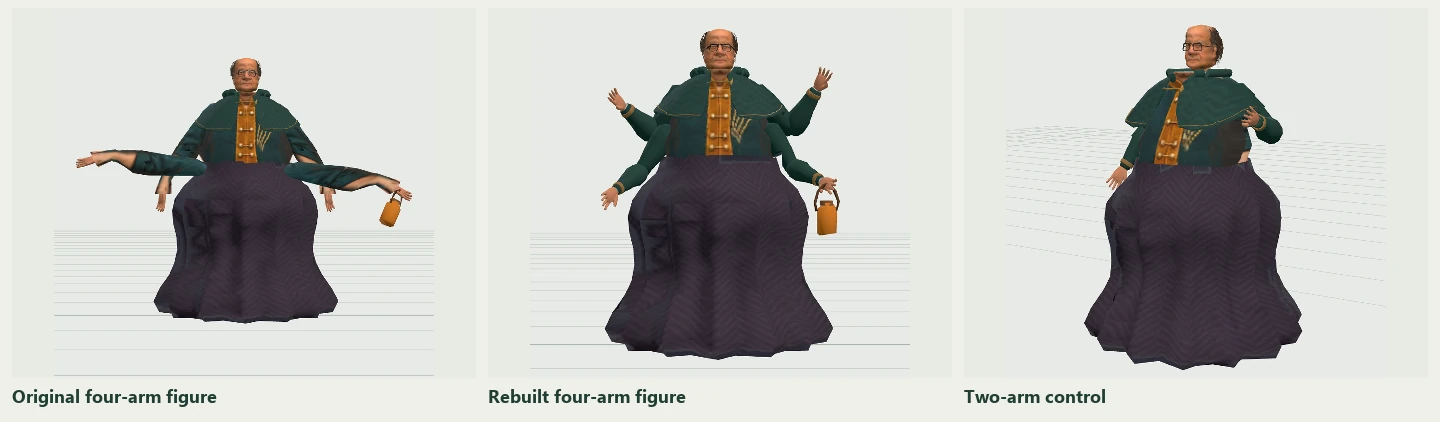
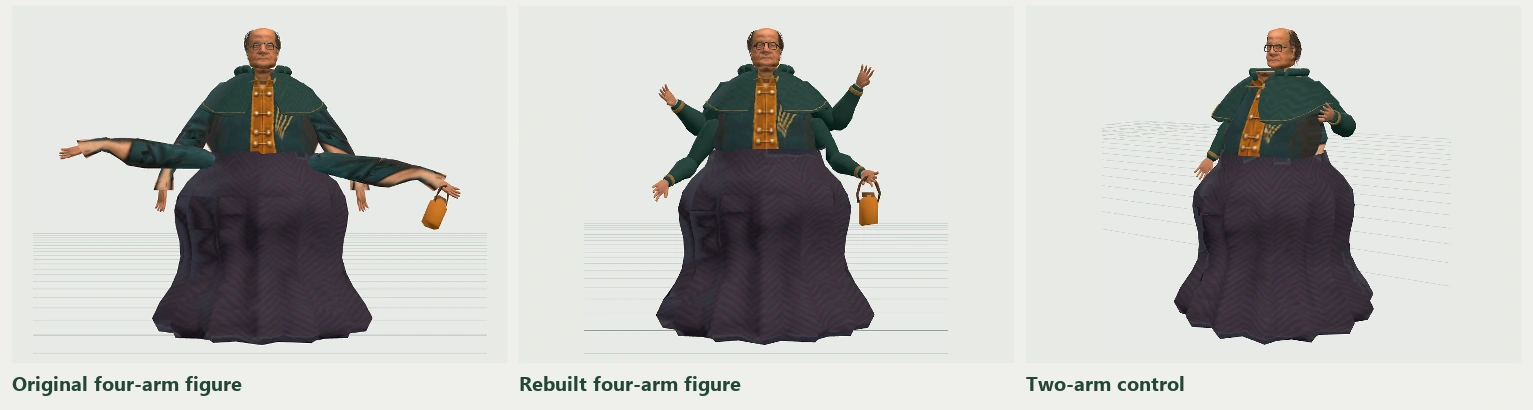
Let artists recut a selected sleeve and compare arms at equal scale

diff --git a/character-view/recipe.js b/character-view/recipe.js
@@ -772,7 +772,7 @@ export function makeBrief(
         "ordered edits against preview. Omit unchanged fields and parts. setPart: {op,id,set}, addPart: {op,part}, removePart: {op,id}, setForm: {op,set}. placeBranch: {op,id,parent,fromWorld:[point on source branch, optional; defaults to its pivot],toWorld:[destination point on parent],copy:true|false,scale:1,turn:[world X,Y,Z degrees]}. Match the chosen point on an existing branch to a point on the new parent, carrying attached regions and paint. Copies get the suffix ‘ copy’. For artist-marked locations use {op:placeAtMark,id,mark:exact mark name,copy:true|false,scale:1,turn:[x,y,z],depth:.008}. The mark supplies the destination parent and position. Omit fromWorld to seat the source pivot. Carry every attached part with it. placeComponent: {op,asset,id:target,mode:replace|replaceBranch|attach,fit:true|false,socket:above|below|front|back|left|right}. Use the library for high-detail painted features; replace preserves children. Use null to remove an optional field in setPart.",
     },
     modeling:
-      'Follow the written instructions first. The variation seed and cues were drawn by the editor from a real random source. The operator authored any drawnChoices as groups of alternatives. Honor the single drawn value in each group where consistent with their instructions. Use the cues to resolve freedom left by the user. Preserve listed part geometry. Return compact operations against the nudged preview and omit unchanged geometry. Global build has optional mass, shoulders, waist, belly and hips multipliers (.4 to 2.4). Units are metres; +Y up, +Z forward and +X character left. The floor is y=0. Preserve appearance and wardrobe unless steered otherwise. You can add, remove, duplicate or replace any parts. Built-in shapes: torso, head, left arm, right arm, left leg, right leg. Their position is an anatomical pivot; size is a local XYZ scale. Custom shapes: box, ellipsoid, cylinder, cone (tip +Y), scute (a shield-shaped convex armor plate, tip -Y, outer ridge +Z). For freeform topology use shape cage, with cage:{vertices:[[x,y,z],...],faces:[[vertexIndex,...],...],levels:0|1|2,creases?:[[a,b],...]}. Bend or straighten one segmented arm relative to its current pose with {op:"bendElbow",id:"forearm",degrees:15}. The wrist and carried objects follow the elbow. A negative angle opens the joint. To equip rows of overlapping plates on a sweep in the current outfit, use {op:"equipPlates",id:"body",name:"chest scale",face:"Front",count:3,columns:3,width:.12,length:.16,depth:.038,start:.3,end:.85,color:"#d2c0a0"}. Width, length and depth are metres in the carrier frame. Rows follow the path from start to end (0–1), columns wrap around its face (Front, Back, Left, Right, Top). Each plate gets its own shape and its upper inside patch seats on the carrier. To reuse an existing turnaround on other regions with matching image framing, use {op:"reuseTurnaround",id:"source part",regions:["first sleeve","second sleeve"]}. The receiving regions must share their old sheet. Use consistently outward winding, 3–8 corners per face. For easy construction, add a cage part without cage data to start from a cube: front/back/left/right/top/bottom face indices are 0,1,2,3,4,5. Apply {op:"editCage",id,kind:"tunnel",face:0,to:1,inset:.34} to make a real opening, "extrude" or "inset" with face and amount, or "crease" on a face. Smaller tunnel inset gives a larger opening. Shape and tilt individual vertices by setting the complete updated cage. A hand shape has a wrist pivot and extends down local Y. Its optional grip has fingers (1-7, plus thumb), curl and spread (0-1), and side (1 or -1). Other primitive positions are their centers; size is full local XYZ dimensions in metres. The organic sweep shape uses knots, each [x,y,z,radiusWidth,radiusDepth] in local metres, two to 48 distinct centreline points, smoothly joined. For sweeps size is local scale. Use this for organic limbs, spines, horns, hair or garment shapes. To bend an existing sweep and carry all of its attached regions use {op:"reshapeSpine",id,knots:[...]}. Appearance.face (0 to 3) selects original face paint and head parts can hold independent sculpt multipliers (.35 to 2) for jaw, nose, brow, cheek, eyes (spacing), eye size, mouth (width), lips (fullness), chin and smile. For a human face made of a sweep, anatomy may be face. Preserve original paint bindings for retained surface artwork. All rotations are Euler XYZ degrees. Custom shapes require color as #rrggbb. Optional parent is a part ID. A child uses local position/size/rotation and follows parent edits. Newly added or replaced primitives receive a metre-based attachment frame automatically: author a child using metre offsets from its parent centre, independent of primitive dimensions. Previously retained primitives without frameSize use scaled local coordinates. Avoid cycles. Optional surface: canvas, leather, metal, scales, plain. Leave outfitRole unassigned for permanent anatomy such as bony sails, ears and horns. The accessory and skirt roles hide regions in Base layer and Pressure suit. Set outfitRole to torso, upper arm, forearm, hand, thigh, shin, foot, head, skirt, accessory or tail when a custom region should accept clothing. A custom mesh may carry markings {kind: Bands, Spots, Rosettes or Countershade, color:#rrggbb, spacing:.06..0.8 metres, coverage:.1..0.9, angle:-180..180 degrees, seed:unsigned integer}. Share one set on organic regions for continuous body markings. Unpainted sweep and ellipsoid regions may set blendSkin:true to join them into one smooth skin with shared joint weights. A sweep can carry drape {folds:2..32,depth:0..0.3,twist:-2..2,slit:0..0.35,slitHeight:0.05..1}. Slits open front and rear panels upwards from the hem. A region also accepts up to 64 local surface pulls: {at:[x,y,z],reach:[rx,ry,rz],offset:[dx,dy,dz],mirrorX?:number}. A smooth radial displacement permits local asymmetry, bulges, dimples and folds in the 3D surface. Keep existing pulls when modifying other fields. For a reusable posed stance, setForm.poses is an array of {name,joints:[{part,station,turn?,shift?}]}. Preserve other named poses when adding one. Each joint is identified by part ID and zero-based station from its attachment toward its tip. A rigid region has station 0. A turn is a unit local XYZW quaternion relative to bind. A shift is a local XYZ translation in metres relative to bind. The whole skeleton uses part "" and station 0. Poses export as named clips and preserve the editable rest shape. Optional motionRole (rigid, torso, head, upper arm, forearm, hand, thigh, shin, foot, wing, fin, axial spine, tail, skirt) controls skinning and animation independently of clothing. Use axial spine for a flexible sweeping trunk, ordering its points from head to tail. This supports swimming and slithering. Frontal geometry edits use frontFits, up to six successive passes {pins:[{at:[x,y,z],shift:[dx,dy]},...],radius:.10.. .65,amount:0..1}. Coordinates use head-height units centered on the current face bounds, +X towards character left, +Y up, +Z forward. Each pass interpolates 3–32 paired surface landmarks including fixed points. Optional view:{yaw,pitch,mode:"plane" or "depth"} uses a head-centred orthographic orbit in degrees: positive yaw towards +X, positive pitch upwards. For an angled pass at and shift use camera right, up and toward-camera coordinates. Depth mode adjusts only anatomical Z and requires at least a 20 degree angle away from the frontal axis. In depth mode symmetric:true inside view mirrors the scalar correction across anatomical X. An optional frontFits overlay holds a content-hashed UV paint layer. Preserve these on unrelated edits. Head accessories can share rigidFaceAnchor:[x,y,z] in normalized anatomical head coordinates; they follow that point rigidly through each face fit. Set faceClearance in metres (.001 to .025) on the rigid front pieces; supporting pieces sharing the same anchor can extend from their rear attachment. A head or registered portrait may use profileFit:{curve:[[t,forward],...],amount:0..1}. Trace 4–96 rows from the brow at [0,0] to the lower chin at t=1, using forward depth relative to the brow in units of brow-to-chin height. Increasing t descends the face. Preserve the curve unless directed to change its side contour. Optional profileFit.stage=\"finish\" makes the side contour the final depth constraint and optional relief from 0 to 1 rebuilds nose and cheek depth against that contour. Preserve a profileFit.paint registration and its side portrait ID on unrelated edits. A head or registered portrait may carry eyesRig {color:#rrggbb,opening:.42..1.8,width:.62..1.6,spacing:.7..1.3,lift:-.10.. .10,iris:.55..1.45}. Preserve measured offsets when revising a fit. The iris supports four independent gaze morphs. An unpainted, unjoined sweep can grow individually rooted fibres along its knots using fibres:{count:4..96,wave:0..1,fall:0..1,grey:0..1,rooted:true|false,seed:unsigned integer}. Use fall for trailing length relative to guide length. Preserve seeds and root attachment on unrelated edits. A head may carry a procedural hair groom with optional pattern (Locks, Side part, Coils, Braids or Locs), part position (-1 to 1), length (0-2 head heights), curl, gather, volume (0-1), sweep (-1 to 1), color (#rrggbb) and an unsigned integer seed. Existing separate hair meshes can have headLayer:"hair" and a head as parent so applying a groom replaces them visually. Attach a cage root to the actual parent surface using surfaceJoin:{faces:[cageFaceIndices],depth:.008} or a sweep end with surfaceJoin:{end:"first", "last" or "along",depth:.008}. The selected patch sits inside the carrier and shares its joint weights. A waist-fitted skirt uses shape mantle, wearFit:true, motionRole skirt, cut:{kind:"Skirt",width,depth,drop,flare,folds,outline:[[0,1],...,[1,hemWidth]],bias:-1..1,gather:0..0.3,tiers:0..6,train:0..2}. Width, depth, drop and rear train use metres. Outline points descend from waist to hem with radius relative to the waist. Bias slopes raised folds across the front. Use surface "satin" for smooth cloth or "canvas" for coarse weave. A mantle is a fitted cut fabric panel. Its cut.armAccess can be Covered, Open sides or Armholes independently of the garment cut. Arm areas follow the nearest arm while the neckline stays attached. Keep the other cut fields on changes. Use optional visibleIn (wardrobe names) for outfit-specific additions. appearance.tones accepts cloth, trim, panel, pants, boots as hex colours. Use unique readable IDs. Use at most 128 parts, each size .005 to 12 and position -12 to 12. Return only proposal JSON. Keep adult humanoid clothing practical and nonsexualized.',
+      'Follow the written instructions first. The variation seed and cues were drawn by the editor from a real random source. The operator authored any drawnChoices as groups of alternatives. Honor the single drawn value in each group where consistent with their instructions. Use the cues to resolve freedom left by the user. Preserve listed part geometry. Return compact operations against the nudged preview and omit unchanged geometry. Global build has optional mass, shoulders, waist, belly and hips multipliers (.4 to 2.4). Units are metres; +Y up, +Z forward and +X character left. The floor is y=0. Preserve appearance and wardrobe unless steered otherwise. You can add, remove, duplicate or replace any parts. Built-in shapes: torso, head, left arm, right arm, left leg, right leg. Their position is an anatomical pivot; size is a local XYZ scale. Custom shapes: box, ellipsoid, cylinder, cone (tip +Y), scute (a shield-shaped convex armor plate, tip -Y, outer ridge +Z). For freeform topology use shape cage, with cage:{vertices:[[x,y,z],...],faces:[[vertexIndex,...],...],levels:0|1|2,creases?:[[a,b],...]}. Replace stretched sleeve paint with solid cloth and recut a segmented swept arm from shoulder to wrist with {op:"recutArmSleeves",id:"upper arm",color:"#214d47"}. Bend or straighten one segmented arm relative to its current pose with {op:"bendElbow",id:"forearm",degrees:15}. The wrist and carried objects follow the elbow. A negative angle opens the joint. To equip rows of overlapping plates on a sweep in the current outfit, use {op:"equipPlates",id:"body",name:"chest scale",face:"Front",count:3,columns:3,width:.12,length:.16,depth:.038,start:.3,end:.85,color:"#d2c0a0"}. Width, length and depth are metres in the carrier frame. Rows follow the path from start to end (0–1), columns wrap around its face (Front, Back, Left, Right, Top). Each plate gets its own shape and its upper inside patch seats on the carrier. To reuse an existing turnaround on other regions with matching image framing, use {op:"reuseTurnaround",id:"source part",regions:["first sleeve","second sleeve"]}. The receiving regions must share their old sheet. Use consistently outward winding, 3–8 corners per face. For easy construction, add a cage part without cage data to start from a cube: front/back/left/right/top/bottom face indices are 0,1,2,3,4,5. Apply {op:"editCage",id,kind:"tunnel",face:0,to:1,inset:.34} to make a real opening, "extrude" or "inset" with face and amount, or "crease" on a face. Smaller tunnel inset gives a larger opening. Shape and tilt individual vertices by setting the complete updated cage. A hand shape has a wrist pivot and extends down local Y. Its optional grip has fingers (1-7, plus thumb), curl and spread (0-1), and side (1 or -1). Other primitive positions are their centers; size is full local XYZ dimensions in metres. The organic sweep shape uses knots, each [x,y,z,radiusWidth,radiusDepth] in local metres, two to 48 distinct centreline points, smoothly joined. For sweeps size is local scale. Use this for organic limbs, spines, horns, hair or garment shapes. To bend an existing sweep and carry all of its attached regions use {op:"reshapeSpine",id,knots:[...]}. Appearance.face (0 to 3) selects original face paint and head parts can hold independent sculpt multipliers (.35 to 2) for jaw, nose, brow, cheek, eyes (spacing), eye size, mouth (width), lips (fullness), chin and smile. For a human face made of a sweep, anatomy may be face. Preserve original paint bindings for retained surface artwork. All rotations are Euler XYZ degrees. Custom shapes require color as #rrggbb. Optional parent is a part ID. A child uses local position/size/rotation and follows parent edits. Newly added or replaced primitives receive a metre-based attachment frame automatically: author a child using metre offsets from its parent centre, independent of primitive dimensions. Previously retained primitives without frameSize use scaled local coordinates. Avoid cycles. Optional surface: canvas, leather, metal, scales, plain. Leave outfitRole unassigned for permanent anatomy such as bony sails, ears and horns. The accessory and skirt roles hide regions in Base layer and Pressure suit. Set outfitRole to torso, upper arm, forearm, hand, thigh, shin, foot, head, skirt, accessory or tail when a custom region should accept clothing. A custom mesh may carry markings {kind: Bands, Spots, Rosettes or Countershade, color:#rrggbb, spacing:.06..0.8 metres, coverage:.1..0.9, angle:-180..180 degrees, seed:unsigned integer}. Share one set on organic regions for continuous body markings. Unpainted sweep and ellipsoid regions may set blendSkin:true to join them into one smooth skin with shared joint weights. A sweep can carry drape {folds:2..32,depth:0..0.3,twist:-2..2,slit:0..0.35,slitHeight:0.05..1}. Slits open front and rear panels upwards from the hem. A region also accepts up to 64 local surface pulls: {at:[x,y,z],reach:[rx,ry,rz],offset:[dx,dy,dz],mirrorX?:number}. A smooth radial displacement permits local asymmetry, bulges, dimples and folds in the 3D surface. Keep existing pulls when modifying other fields. For a reusable posed stance, setForm.poses is an array of {name,joints:[{part,station,turn?,shift?}]}. Preserve other named poses when adding one. Each joint is identified by part ID and zero-based station from its attachment toward its tip. A rigid region has station 0. A turn is a unit local XYZW quaternion relative to bind. A shift is a local XYZ translation in metres relative to bind. The whole skeleton uses part "" and station 0. Poses export as named clips and preserve the editable rest shape. Optional motionRole (rigid, torso, head, upper arm, forearm, hand, thigh, shin, foot, wing, fin, axial spine, tail, skirt) controls skinning and animation independently of clothing. Use axial spine for a flexible sweeping trunk, ordering its points from head to tail. This supports swimming and slithering. Frontal geometry edits use frontFits, up to six successive passes {pins:[{at:[x,y,z],shift:[dx,dy]},...],radius:.10.. .65,amount:0..1}. Coordinates use head-height units centered on the current face bounds, +X towards character left, +Y up, +Z forward. Each pass interpolates 3–32 paired surface landmarks including fixed points. Optional view:{yaw,pitch,mode:"plane" or "depth"} uses a head-centred orthographic orbit in degrees: positive yaw towards +X, positive pitch upwards. For an angled pass at and shift use camera right, up and toward-camera coordinates. Depth mode adjusts only anatomical Z and requires at least a 20 degree angle away from the frontal axis. In depth mode symmetric:true inside view mirrors the scalar correction across anatomical X. An optional frontFits overlay holds a content-hashed UV paint layer. Preserve these on unrelated edits. Head accessories can share rigidFaceAnchor:[x,y,z] in normalized anatomical head coordinates; they follow that point rigidly through each face fit. Set faceClearance in metres (.001 to .025) on the rigid front pieces; supporting pieces sharing the same anchor can extend from their rear attachment. A head or registered portrait may use profileFit:{curve:[[t,forward],...],amount:0..1}. Trace 4–96 rows from the brow at [0,0] to the lower chin at t=1, using forward depth relative to the brow in units of brow-to-chin height. Increasing t descends the face. Preserve the curve unless directed to change its side contour. Optional profileFit.stage=\"finish\" makes the side contour the final depth constraint and optional relief from 0 to 1 rebuilds nose and cheek depth against that contour. Preserve a profileFit.paint registration and its side portrait ID on unrelated edits. A head or registered portrait may carry eyesRig {color:#rrggbb,opening:.42..1.8,width:.62..1.6,spacing:.7..1.3,lift:-.10.. .10,iris:.55..1.45}. Preserve measured offsets when revising a fit. The iris supports four independent gaze morphs. An unpainted, unjoined sweep can grow individually rooted fibres along its knots using fibres:{count:4..96,wave:0..1,fall:0..1,grey:0..1,rooted:true|false,seed:unsigned integer}. Use fall for trailing length relative to guide length. Preserve seeds and root attachment on unrelated edits. A head may carry a procedural hair groom with optional pattern (Locks, Side part, Coils, Braids or Locs), part position (-1 to 1), length (0-2 head heights), curl, gather, volume (0-1), sweep (-1 to 1), color (#rrggbb) and an unsigned integer seed. Existing separate hair meshes can have headLayer:"hair" and a head as parent so applying a groom replaces them visually. Attach a cage root to the actual parent surface using surfaceJoin:{faces:[cageFaceIndices],depth:.008} or a sweep end with surfaceJoin:{end:"first", "last" or "along",depth:.008}. The selected patch sits inside the carrier and shares its joint weights. A waist-fitted skirt uses shape mantle, wearFit:true, motionRole skirt, cut:{kind:"Skirt",width,depth,drop,flare,folds,outline:[[0,1],...,[1,hemWidth]],bias:-1..1,gather:0..0.3,tiers:0..6,train:0..2}. Width, depth, drop and rear train use metres. Outline points descend from waist to hem with radius relative to the waist. Bias slopes raised folds across the front. Use surface "satin" for smooth cloth or "canvas" for coarse weave. A mantle is a fitted cut fabric panel. Its cut.armAccess can be Covered, Open sides or Armholes independently of the garment cut. Arm areas follow the nearest arm while the neckline stays attached. Keep the other cut fields on changes. Use optional visibleIn (wardrobe names) for outfit-specific additions. appearance.tones accepts cloth, trim, panel, pants, boots as hex colours. Use unique readable IDs. Use at most 128 parts, each size .005 to 12 and position -12 to 12. Return only proposal JSON. Keep adult humanoid clothing practical and nonsexualized.',
   };
 }
 export function readProposal(raw, request, revision) {

diff --git a/docs/workshop-results.html b/docs/workshop-results.html
@@ -208,9 +208,9 @@
       </section>
       <section class="method" id="jointed-arms">
         <h2>Where does the elbow actually bend?</h2>
-        <figure><a href="media/arm-revision.webp"><img src="media/arm-revision.webp" alt="The original four arms jut sideways from the waist. The revised sleeves have separate shoulders, bent elbows and tapered wrists. A two-arm version stands alongside."></a><figcaption>Three exported models at rest. The two-arm control uses the same torso, portrait, garment pattern and hands.</figcaption></figure>
+        <figure><a href="media/arm-revision.webp"><img src="media/arm-revision.webp" alt="The original four arms jut sideways from the waist. The revised sleeves have separate shoulders, bent elbows and tapered wrists. A two-arm version stands alongside."></a><figcaption>Three exported models at rest, scaled to the same standing height for this comparison. <a href="media/arm-detail.webp">Inspect the original and revised sleeves at equal scale</a>. The two-arm control uses the same torso, portrait, garment pattern and hands.</figcaption></figure>
         <p>The first four-handed performer passed a shoulder-contact test yet still looked wrong. Its lower sleeves emerged from the waistband. In Reach, each upper arm flexed 24° halfway along its length, and each forearm had zero elbow rotation. On the same side of the body, eight of eighteen upper/lower limb-region pairs crossed during the sampled poses.</p>
-        <p>We moved the second shoulders onto the ribs, recut the sleeve from rounded shoulder to narrow wrist, aligned the palms with their forearms, and shortened the reach of the hand holding the vessel. A segmented arm now takes its hinge and wrist directly from the attached forearm and hand. Pick one of those regions in Sculpt and use <b>Bend elbow 15°</b> or <b>Straighten elbow 15°</b>. The editable geometry, preview motion and exported skeleton use the same attachment points.</p>
+        <p>We moved the second shoulders onto the ribs, recut the sleeve from rounded shoulder to narrow wrist, aligned the palms with their forearms, and shortened the reach of the hand holding the vessel. A segmented arm now takes its hinge and wrist directly from the attached forearm and hand. Pick one of those regions in Sculpt and use <b>Bend elbow 15°</b> or <b>Straighten elbow 15°</b>. On a swept arm, <b>Recut as plain fitted sleeves</b> replaces stretched sleeve paint with cloth in your chosen colour and tapers each section between the existing joints. The editable geometry, preview motion and exported skeleton use the same attachment points.</p>
         <figure><a href="media/arm-motion.webp"><img src="media/arm-motion.webp" alt="Original and revised Reach shown from the same camera, plus a side view of the repaired figure."></a><figcaption>Reach is sampled at the same 45% phase in the two action panels. The jar’s hand moves less than the leading hand. Overlap in a particular camera view can still hide a far limb.</figcaption></figure>
         <p>At rest and twelve times in each of Idle, Walk, Crouch and Reach, all twelve shoulder, elbow and wrist joins on the stage costume touched their carriers. None of the eighteen same-side region pairs from different arms crossed. These checks cover the supplied motions. A new garment or a more extreme pose needs its own test.</p>
         <p><a href="../examples/jointed-conductor.glb" data-player="jointed-conductor" data-clip="Reach">Play the two-arm figure</a> · <a href="../examples/festival-wardrobe.glb" data-player="festival-wardrobe" data-clip="Reach">Play the four-arm figure</a> · <span class="live-demo" hidden><a href="../#form=jointed-conductor">Edit two arms</a> · <a href="../#form=festival-wardrobe">Edit four arms</a> · </span><a href="media/arm-fitting.json">Operations, joint angles and collision counts</a></p>

diff --git a/character-view/graft.js b/character-view/graft.js
@@ -108,6 +108,80 @@ export function armChain(parts, id) {
   return role(upper) === "upper arm" && hand ? { upper, lower, hand } : null;
 }
 
+export function recutArmSleeves(form, id, color) {
+  const chain = armChain(form.parts, id);
+  if (
+    !chain ||
+    [chain.upper, chain.lower].some((p) => p.shape !== "sweep") ||
+    !/^#[0-9a-f]{6}$/i.test(color)
+  )
+    throw new Error(
+      "Choose a swept upper arm and forearm with a hand, and a fabric colour.",
+    );
+  const g = graph(form.parts);
+  const upperProfile = [
+    [0, 0.75],
+    [0.16, 1.13],
+    [0.42, 0.99],
+    [0.66, 0.94],
+    [0.85, 0.77],
+    [1, 0.72],
+  ];
+  const lowerProfile = [
+    [0, 0.74],
+    [0.18, 0.93],
+    [0.36, 0.95],
+    [0.64, 0.72],
+    [0.86, 0.54],
+    [1, 0.49],
+  ];
+  const refit = (p, next, profile, radius) => {
+    const end = new Vector3()
+      .setFromMatrixPosition(g.world(next.id))
+      .applyMatrix4(g.world(p.id).clone().invert());
+    const length = end.length();
+    if (length < 0.015)
+      throw new Error(
+        "Separate the shoulder, elbow and wrist before cutting the sleeves.",
+      );
+    const knots = profile.map(([t, r]) => [
+      ...end.clone().multiplyScalar(t).toArray(),
+      radius * r,
+      radius * r * 0.98,
+    ]);
+    // Overlap the adjacent joint with rounded ends in the rest pose.
+    knots.unshift([
+      ...end.clone().multiplyScalar(-0.09).toArray(),
+      radius * 0.28,
+      radius * 0.28,
+    ]);
+    knots.push([
+      ...end.clone().multiplyScalar(1.055).toArray(),
+      radius * 0.3,
+      radius * 0.3,
+    ]);
+    const result = { ...p, knots: knots.reverse(), color, surface: "canvas" };
+    delete result.paint;
+    return result;
+  };
+  const radius = (p, next) => {
+    const end = new Vector3()
+      .setFromMatrixPosition(g.world(next.id))
+      .applyMatrix4(g.world(p.id).clone().invert());
+    return MathUtils.clamp(end.length() * 0.22, 0.006, 1);
+  };
+  const { upper, lower, hand } = chain;
+  const a = refit(upper, lower, upperProfile, radius(upper, lower));
+  const b = refit(lower, hand, lowerProfile, radius(lower, hand));
+  return retainPaintSources(
+    {
+      ...form,
+      parts: form.parts.map((p) => (p === upper ? a : p === lower ? b : p)),
+    },
+    paintSources(form),
+  );
+}
+
 export function bendElbow(form, id, degrees) {
   const chain = armChain(form.parts, id);
   if (!chain || !Number.isFinite(degrees) || Math.abs(degrees) > 150)

diff --git a/character-view/app.js b/character-view/app.js
@@ -14,7 +14,7 @@ import { reusePaintEditor } from "./reuse-paint-editor.js";
 import { wardrobeEditor } from "./wardrobe-editor.js";
 import { readReference, validReferences } from "./visual-references.js";
 import { acceptsMarkings, validMarkings } from "./markings.js";
-import { armChain, bendElbow, fitHand } from "./graft.js";
+import { armChain, bendElbow, recutArmSleeves, fitHand } from "./graft.js";
 import { palmColor } from "./turnaround.js";
 import {
   listAlternates,
@@ -1293,6 +1293,20 @@ function bindControls() {
       }
     };
   }
+  $("#recut-arm").onclick = () => {
+    try {
+      commit(
+        recutArmSleeves(
+          nudge(form, target, amounts),
+          target,
+          $("#sleeve-color").value,
+        ),
+        "Sleeves recut.",
+      );
+    } catch (error) {
+      status(error.message);
+    }
+  };
   $("#fit-hand").onclick = () => {
     try {
       const preview = nudge(form, target, amounts),
@@ -2249,7 +2263,10 @@ function update() {
     ? "Keep shape: " + [...protectedIds].join(", ")
     : "";
   $("#protected-list").hidden = !protectedIds.size;
-  $("#elbow-tools").hidden = locked || !armChain(preview.parts, target);
+  const arm = armChain(preview.parts, target);
+  $("#elbow-tools").hidden = locked || !arm;
+  $("#recut-arm").disabled =
+    !arm || arm.upper.shape !== "sweep" || arm.lower.shape !== "sweep";
   $("#fit-hand").hidden =
     locked || part?.shape !== "sweep" || part?.outfitRole !== "hand";
   $("#join-tools").hidden =

diff --git a/character-view/arm-motion.test.js b/character-view/arm-motion.test.js
@@ -1,7 +1,7 @@
 import test from "node:test";
 import assert from "node:assert/strict";
 import { AnimationMixer, BoxGeometry, Group, Mesh, Vector3 } from "three";
-import { bendElbow } from "./graft.js";
+import { bendElbow, recutArmSleeves } from "./graft.js";
 import { skinCharacter } from "./skin.js";
 
 test("a raised forearm hinges at its elbow, carries the wrist and keeps both rigid segment lengths", () => {
@@ -22,6 +22,27 @@ test("a raised forearm hinges at its elbow, carries the wrist and keeps both rig
     { id: "cup", parent: "palm", motionRole: "rigid", position: [0, -0.04, 0] },
   ].map((p) => ({ ...p, shape: "box", size: [1, 1, 1], rotation: [0, 0, 0] }));
   const form = { parts };
+  const swept = {
+    parts: parts.map((p, i) =>
+      i < 2
+        ? {
+            ...p,
+            shape: "sweep",
+            knots: [
+              [0, -0.2, 0, 0.06, 0.06],
+              [0, 0, 0, 0.05, 0.05],
+            ],
+          }
+        : p,
+    ),
+  };
+  const recut = recutArmSleeves(swept, "palm", "#365849");
+  assert.deepEqual(
+    recut.parts.map((p) => p.position),
+    swept.parts.map((p) => p.position),
+  );
+  assert.deepEqual(recut.parts.slice(2), swept.parts.slice(2));
+  assert.ok(recut.parts[1].knots[1][3] < recut.parts[1].knots.at(-3)[3]);
   const nudged = bendElbow(form, "palm", 15);
   assert.deepEqual(
     nudged.parts.filter((p) => p.id !== "hinge"),

diff --git a/character-view/index.html b/character-view/index.html
@@ -756,7 +756,7 @@
                 </select></label
               >
             </div>
-            <div id="elbow-tools" hidden><div class="actions"><button id="bend-elbow">Bend elbow 15°</button><button id="open-elbow">Straighten elbow 15°</button></div></div>
+            <div id="elbow-tools" hidden><div class="actions"><button id="bend-elbow">Bend elbow 15°</button><button id="open-elbow">Straighten elbow 15°</button></div><label class="field">Sleeve fabric<input id="sleeve-color" type="color" value="#214d47"></label><button id="recut-arm">Recut as plain fitted sleeves</button></div>
             <button id="fit-hand" hidden>Fit fingers to this hand</button>
             <div id="join-tools" hidden>
               <label class="field"

diff --git a/character-view/variations.js b/character-view/variations.js
@@ -8,7 +8,12 @@ import {
   retainPaintSources,
   repaintRegions,
 } from "./paint-sources.js";
-import { bendElbow, placeBranch, placeComponent } from "./graft.js";
+import {
+  bendElbow,
+  recutArmSleeves,
+  placeBranch,
+  placeComponent,
+} from "./graft.js";
 const ideas = {
   subtle: [
     [
@@ -249,6 +254,9 @@ export function applyOperations(
         }).form;
         break;
       }
+      case "recutArmSleeves":
+        form = recutArmSleeves(form, id, action.color);
+        break;
       case "bendElbow":
         form = bendElbow(form, id, action.degrees);
         break;

diff --git a/character-view/motion.js b/character-view/motion.js
@@ -151,7 +151,8 @@ export function buildClips(root, regions) {
         [...regions.values()].some(
           (s) =>
             s.part.parent === hand.part.id &&
-            (s.role === "accessory" || (s.role === "rigid" && !s.part.visibleIn)),
+            (s.role === "accessory" ||
+              (s.role === "rigid" && !s.part.visibleIn)),
         );
       armMovement.set(arm, {
         reach: loaded ? 0.12 : [1, 0.57, 0.36][Math.min(free++, 2)],
